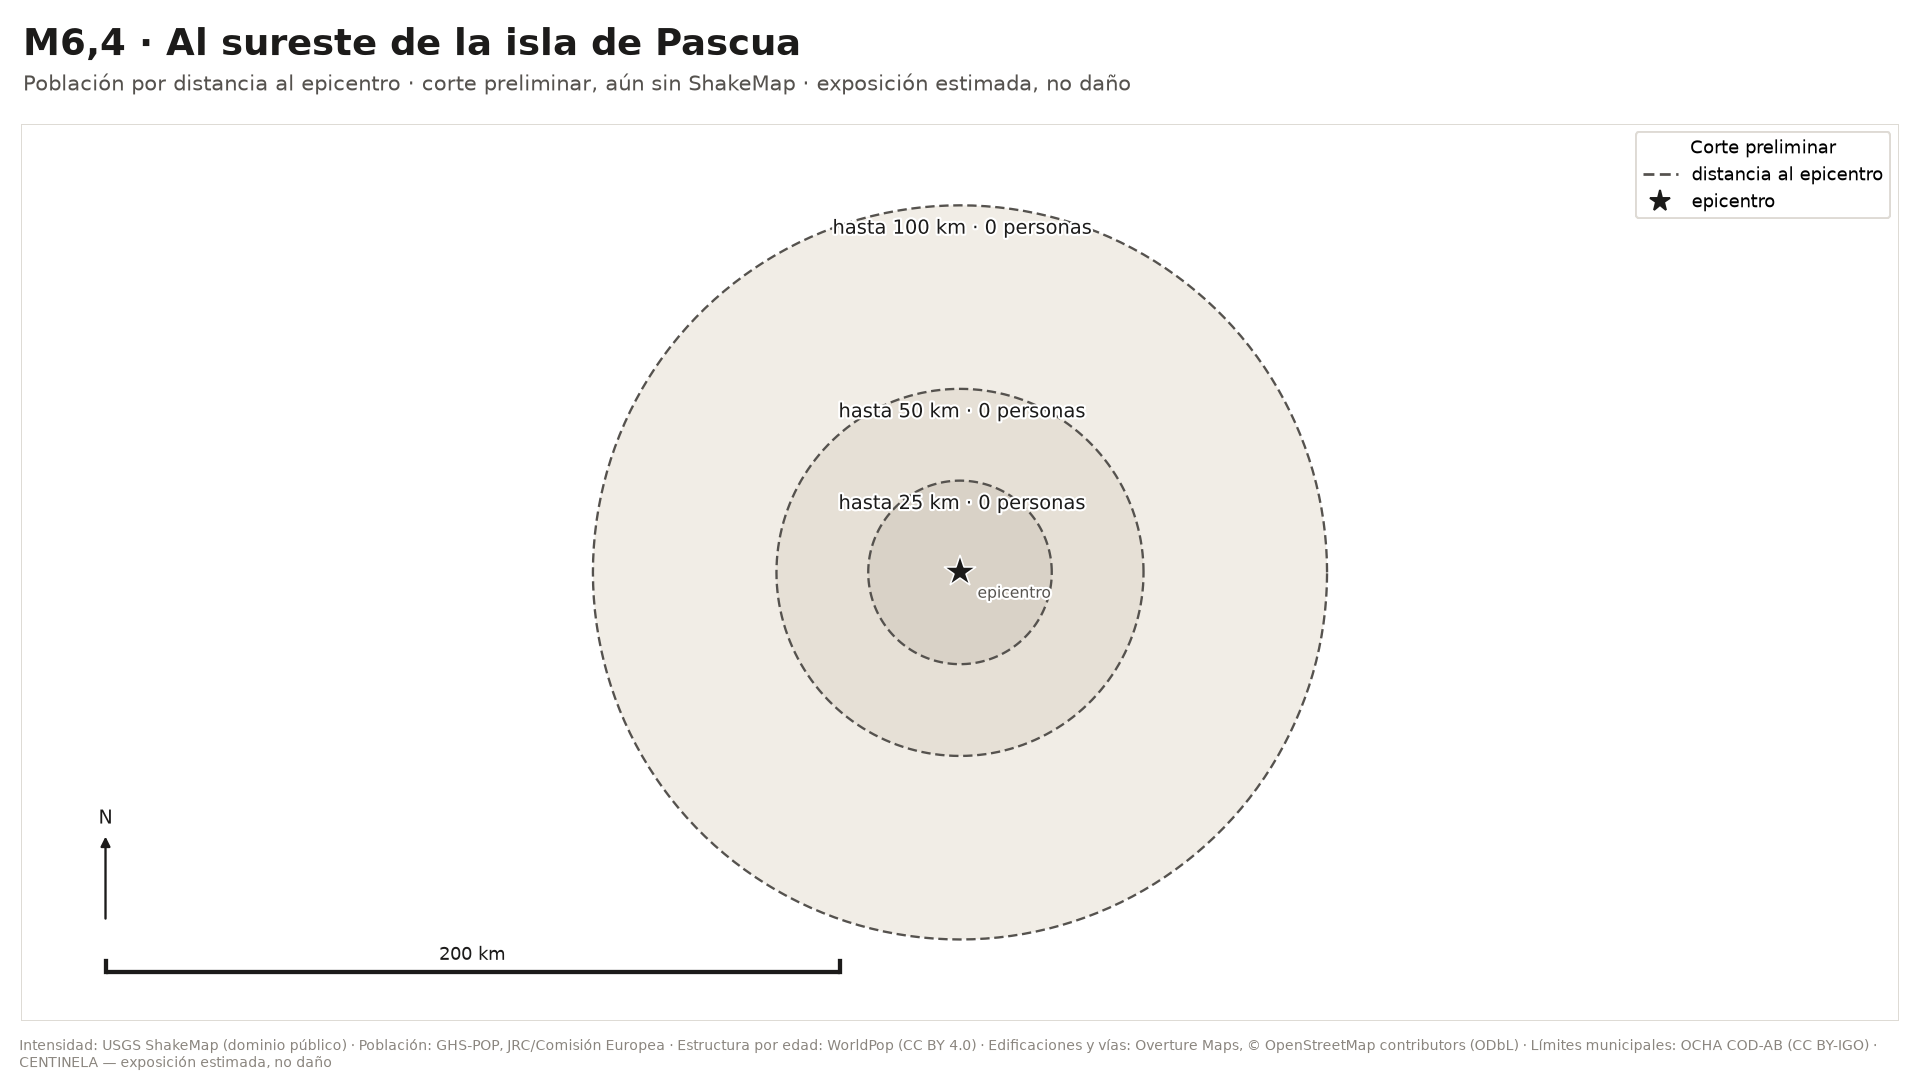
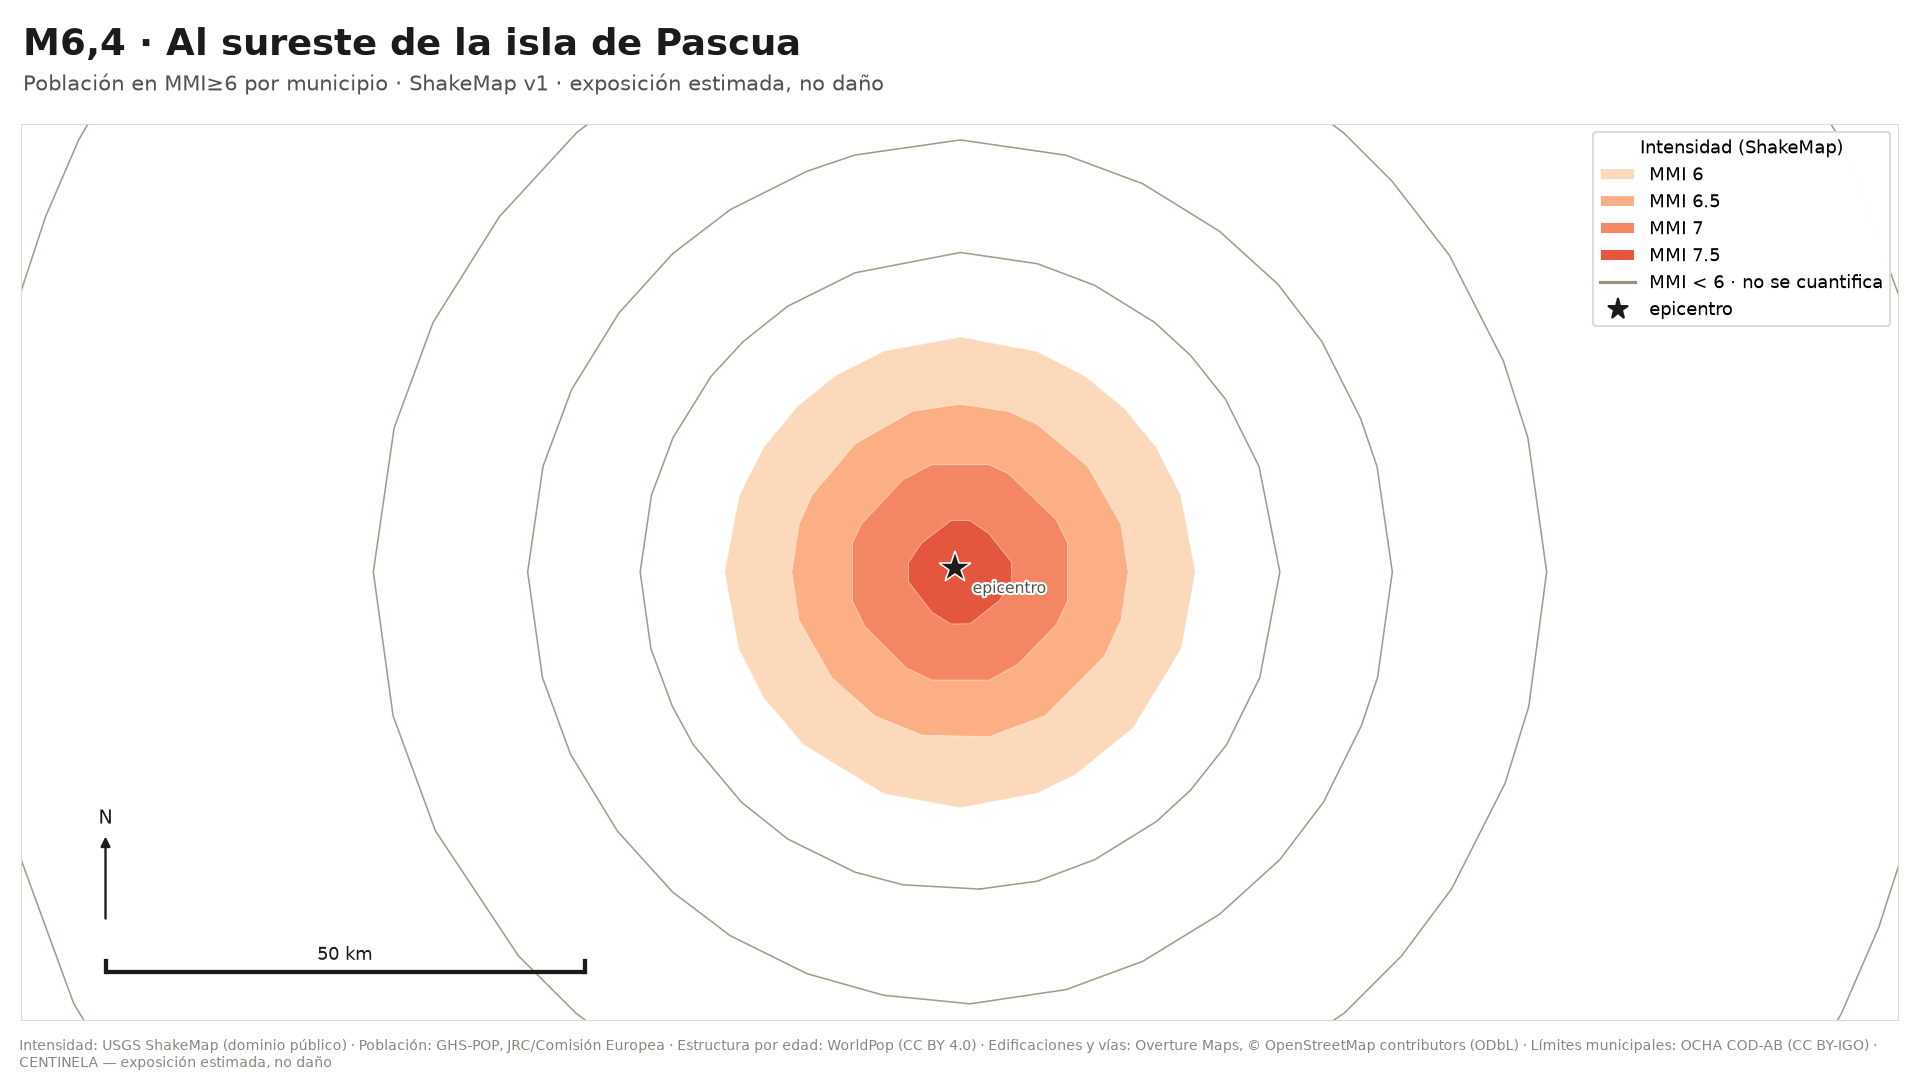
P3: reporte de us7000ttxz

diff --git a/reports/us7000ttxz/report.md b/reports/us7000ttxz/report.md
@@ -2,9 +2,25 @@
 
 **Evento USGS:** `us7000ttxz` · **Origen:** 2026-10-29T07:49:50Z UTC · **Profundidad:** 10,0 km
 
-> **Reporte preliminar sin ShakeMap.** El corte es por radios alrededor del epicentro, no por intensidad modelada. Se actualiza automáticamente en cuanto USGS publique el ShakeMap del evento.
+## Exposición estimada
 
-## Población por distancia al epicentro
+| Indicador | Estimado |
+|---|---:|
+| Población en MMI≥6 | el evento no llegó a esta banda |
+| Población en MMI≥7 | el evento no llegó a esta banda |
+| Población en MMI≥8 | el evento no llegó a esta banda |
+| Edificaciones en MMI≥6 | 0 |
+| Sedes de salud en MMI≥6 | 0 |
+| Sedes educativas en MMI≥6 | 0 |
+| Kilómetros de vía en MMI≥6 | 0 km |
+
+> **Todas las cifras en cero es un resultado, no un fallo.** El ShakeMap de este evento sí dibuja intensidad, pero no alcanza MMI≥6 sobre territorio habitado del país: la sacudida quedó mar adentro o sobre zona despoblada. El cálculo corrió entero.
+
+Las cifras de esta tabla van redondeadas a dos cifras significativas, que es la precisión que un modelo de exposición sostiene. Las exactas están en el CSV municipal y en `report.json`.
+
+### Población por distancia al epicentro
+
+Ninguna banda de intensidad alcanza población, así que la única cifra que dimensiona este evento es la distancia:
 
 | Radio desde el epicentro | Población |
 |---|---:|
@@ -18,16 +34,34 @@ Los radios **no son bandas de intensidad**. Aquí no hay modelo de sacudida, sol
 
 USGS no ha publicado el producto *Ground Failure* para este evento. La sección se omite; el reporte se re-emite automáticamente si aparece.
 
+## Referencia cruzada
+
+PAGER (USGS) estima para este evento una alerta **verde**. CENTINELA no estima víctimas; la cifra se incluye solo como contraste.
+
+Las dos cifras **no se tabulan igual** y no se pueden leer una contra otra: PAGER agrupa por MMI redondeado (su fila «7» es todo lo que cae entre 6,5 y 7,49) y CENTINELA usa bandas literales, donde MMI≥7 es MMI≥7. Puede además que no hablen del mismo ShakeMap: este reporte declara en «Procedencia» qué versión consumió, y PAGER pudo correr sobre otra versión o sobre otro producto del mismo sismo. El contraste banda a banda, hecho y comprobado para el sismo de San José del Palmar, está en `docs/PARA_INSTITUCIONES.md`.
+
 ## Incertidumbre y calidad
 
-Discrepancia entre GHS-POP y WorldPop: **no se calcula en un reporte preliminar**. El contraste se hace celda a celda dentro de las bandas de intensidad, y sin ShakeMap todavía no hay bandas que cortar. Aparecerá en cuanto el reporte se re-emita con el ShakeMap.
+Discrepancia entre GHS-POP y WorldPop: **no se pudo medir**. Ninguna celda dentro de las bandas publicadas tiene población de WorldPop con la que contrastar.
+
+- El epicentro está a 1.479 km de la población más cercana del país con la que se comparó. La sacudida no alcanzó territorio habitado.
+
+## Cambios frente a la versión anterior
+
+- ShakeMap: v0 → v1 (us)
+- Ninguna cifra publicada cambia frente a la versión anterior.
+
+## Descargas
+
+- [CSV por municipio](adm2.csv)
+- [Mapa PNG](mapa_general.png)
 
 ## Procedencia
 
-- ShakeMap consumido: **ninguno** (no publicado aún)
+- ShakeMap consumido: **v1** de `us`
 - Ground Failure consumido: **ninguno** (no publicado aún)
 - Manifiesto de exposición: [`chl-v0.5`](https://github.com/sforero77/CENTINELA/blob/main/data/manifests/CHL.yaml)
-- Pipeline: `0.1.0` · Generado: 2026-10-29T08:11:02Z
+- Pipeline: `0.1.0` · Generado: 2026-10-29T08:31:03Z
 
 ## Advertencias
 
